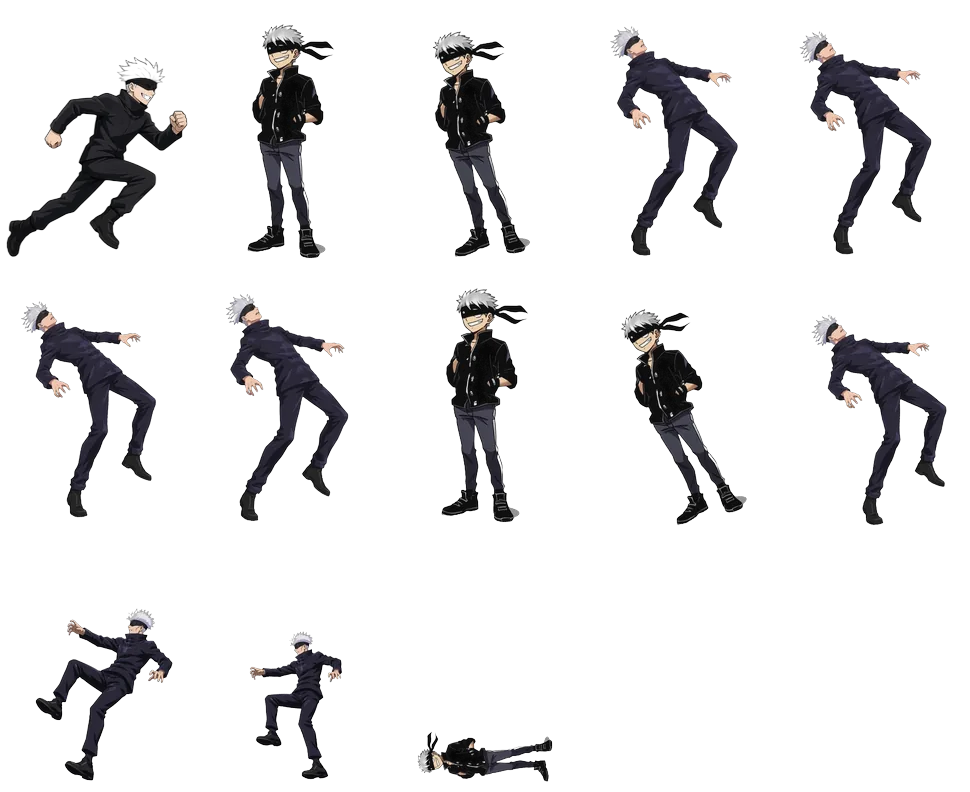
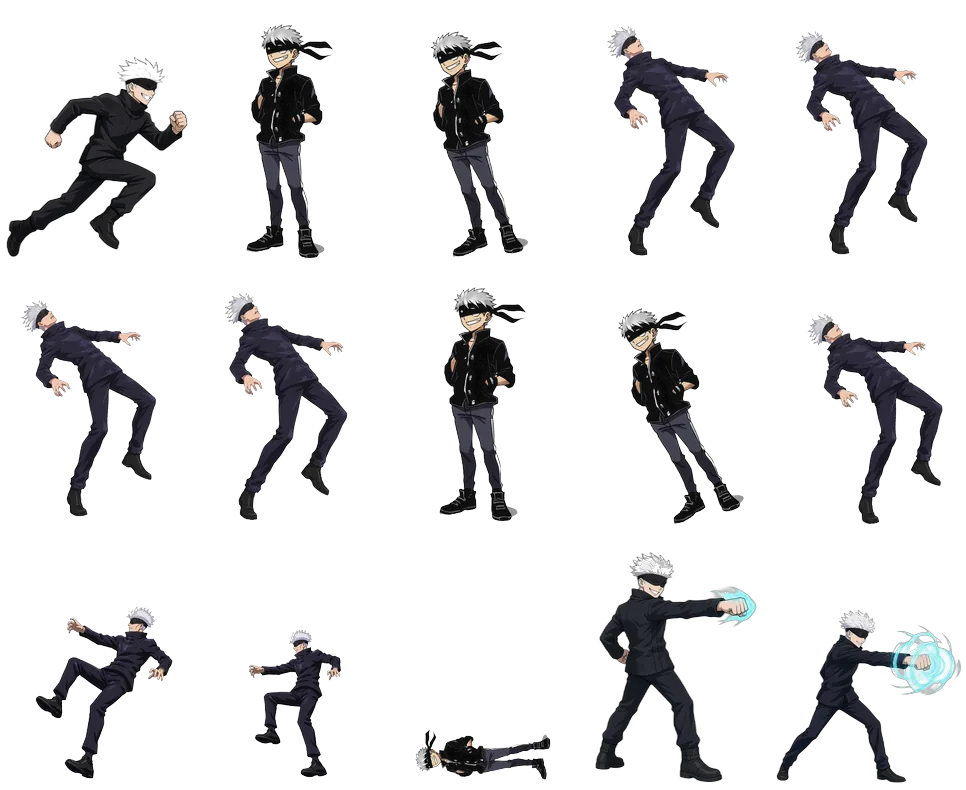
pages30o: 五条悟普攻+苍技能帧接入
装 attack×6 / skill_ao×6，重建 gojo atlas（3 张），drawGojo 播 g_atk/g_blue。

diff --git a/game.js b/game.js
@@ -70,7 +70,7 @@
   var charHover = -1;
   // pages23: spritesheet loader. Each kit is 1–3 webp atlases (~5 total) plus ~15
   // core images. fetch+blob decode; match load exclusive; 20s stall → retry UI.
-  var ASSET_V = "pages30n";
+  var ASSET_V = "pages30o";
   var ASSET_GROUPS = { core: [], obito: [], pain: [], tanjiro: [], gojo: [] };
   var assetErrors = [];
   var LOAD_CONCURRENCY = 8;
@@ -405,6 +405,7 @@
       bindArr(tanjiro.hitstun); bindArr(tanjiro.knock);
     } else if (kitId === "gojo") {
       bindArr(gojo.idle); bindArr(gojo.run); bindArr(gojo.hitstun); bindArr(gojo.knock);
+      bindArr(gojo.atk); bindArr(gojo.blue);
     }
   }
   function registerKitSheets(kitId) {
@@ -647,12 +648,14 @@
   var tanjiroBodyW = 211 * tanjiroScale;
   var tanjiroBodyH = 360 * tanjiroScale;
 
-  // pages30n: 五条悟 — 基础帧 + 土豪过审定稿 run
+  // pages30o: 五条悟 — 基础帧 + 定稿 run + 普攻/苍技能帧
   var gojo = {
     idle: loadNumbered("gojo/idle", 8),
     run: loadNumbered("gojo/run", 8),
     hitstun: loadNumbered("gojo/hitstun", 6),
-    knock: loadNumbered("gojo/knockdown", 6)
+    knock: loadNumbered("gojo/knockdown", 6),
+    atk: loadNumbered("gojo/attack", 6),
+    blue: loadNumbered("gojo/skill_ao", 6)
   };
   // canvas 320×436；opaque ~145×390；脚底距底 ~7px；面朝右 → nativeDir +1
   var gojoFootPad = 7;
@@ -4661,8 +4664,18 @@
     } else if (reacting) {
       set = gojo.idle;
       idx = 0;
+    } else if (f.anim === "g_atk" && gojo.atk && gojo.atk[0] && gojo.atk[0].complete) {
+      set = gojo.atk;
+      var ua = f.animDur > 0 ? f.animT / f.animDur : 1;
+      if (ua < 0) ua = 0; if (ua > 0.999) ua = 0.999;
+      idx = Math.min(5, Math.floor(ua * 6));
+    } else if (f.anim === "g_blue" && gojo.blue && gojo.blue[0] && gojo.blue[0].complete) {
+      set = gojo.blue;
+      var ub = f.animDur > 0 ? f.animT / f.animDur : 1;
+      if (ub < 0) ub = 0; if (ub > 0.999) ub = 0.999;
+      idx = Math.min(5, Math.floor(ub * 6));
     } else if (f.anim && f.anim.indexOf("g_") === 0) {
-      // skill stubs: hold idle with slight pulse until skill frames exist
+      // other skill stubs (赫/瞬步/无下限/领域) until art lands
       set = gojo.idle;
       idx = Math.min(7, Math.floor(((f.animT || 0) / Math.max(0.01, f.animDur || 0.4)) * 8));
     } else if (f.gait === "run" || f.gait === "walk") {

diff --git a/index.html b/index.html
@@ -51,7 +51,7 @@
 (function(){var t0=Date.now(),el=document.getElementById("bootT");var iv=setInterval(function(){if(!document.getElementById("boot")){clearInterval(iv);return;}el.textContent=Math.round((Date.now()-t0)/1000)+"s";},500);
 window.addEventListener("error",function(e){var m=document.getElementById("bootMsg");if(m&&e&&e.target&&e.target.src)m.textContent="脚本加载失败，正在重试…";},true);})();
 </script>
-<script src="game.js?v=pages30n" onerror="(function(s){var n=document.createElement('script');n.src='game.js?v=pages30n&r='+Date.now();document.body.appendChild(n);})(this)"></script>
+<script src="game.js?v=pages30o" onerror="(function(s){var n=document.createElement('script');n.src='game.js?v=pages30o&r='+Date.now();document.body.appendChild(n);})(this)"></script>
 
 <script>
 (function(){var last=0;
